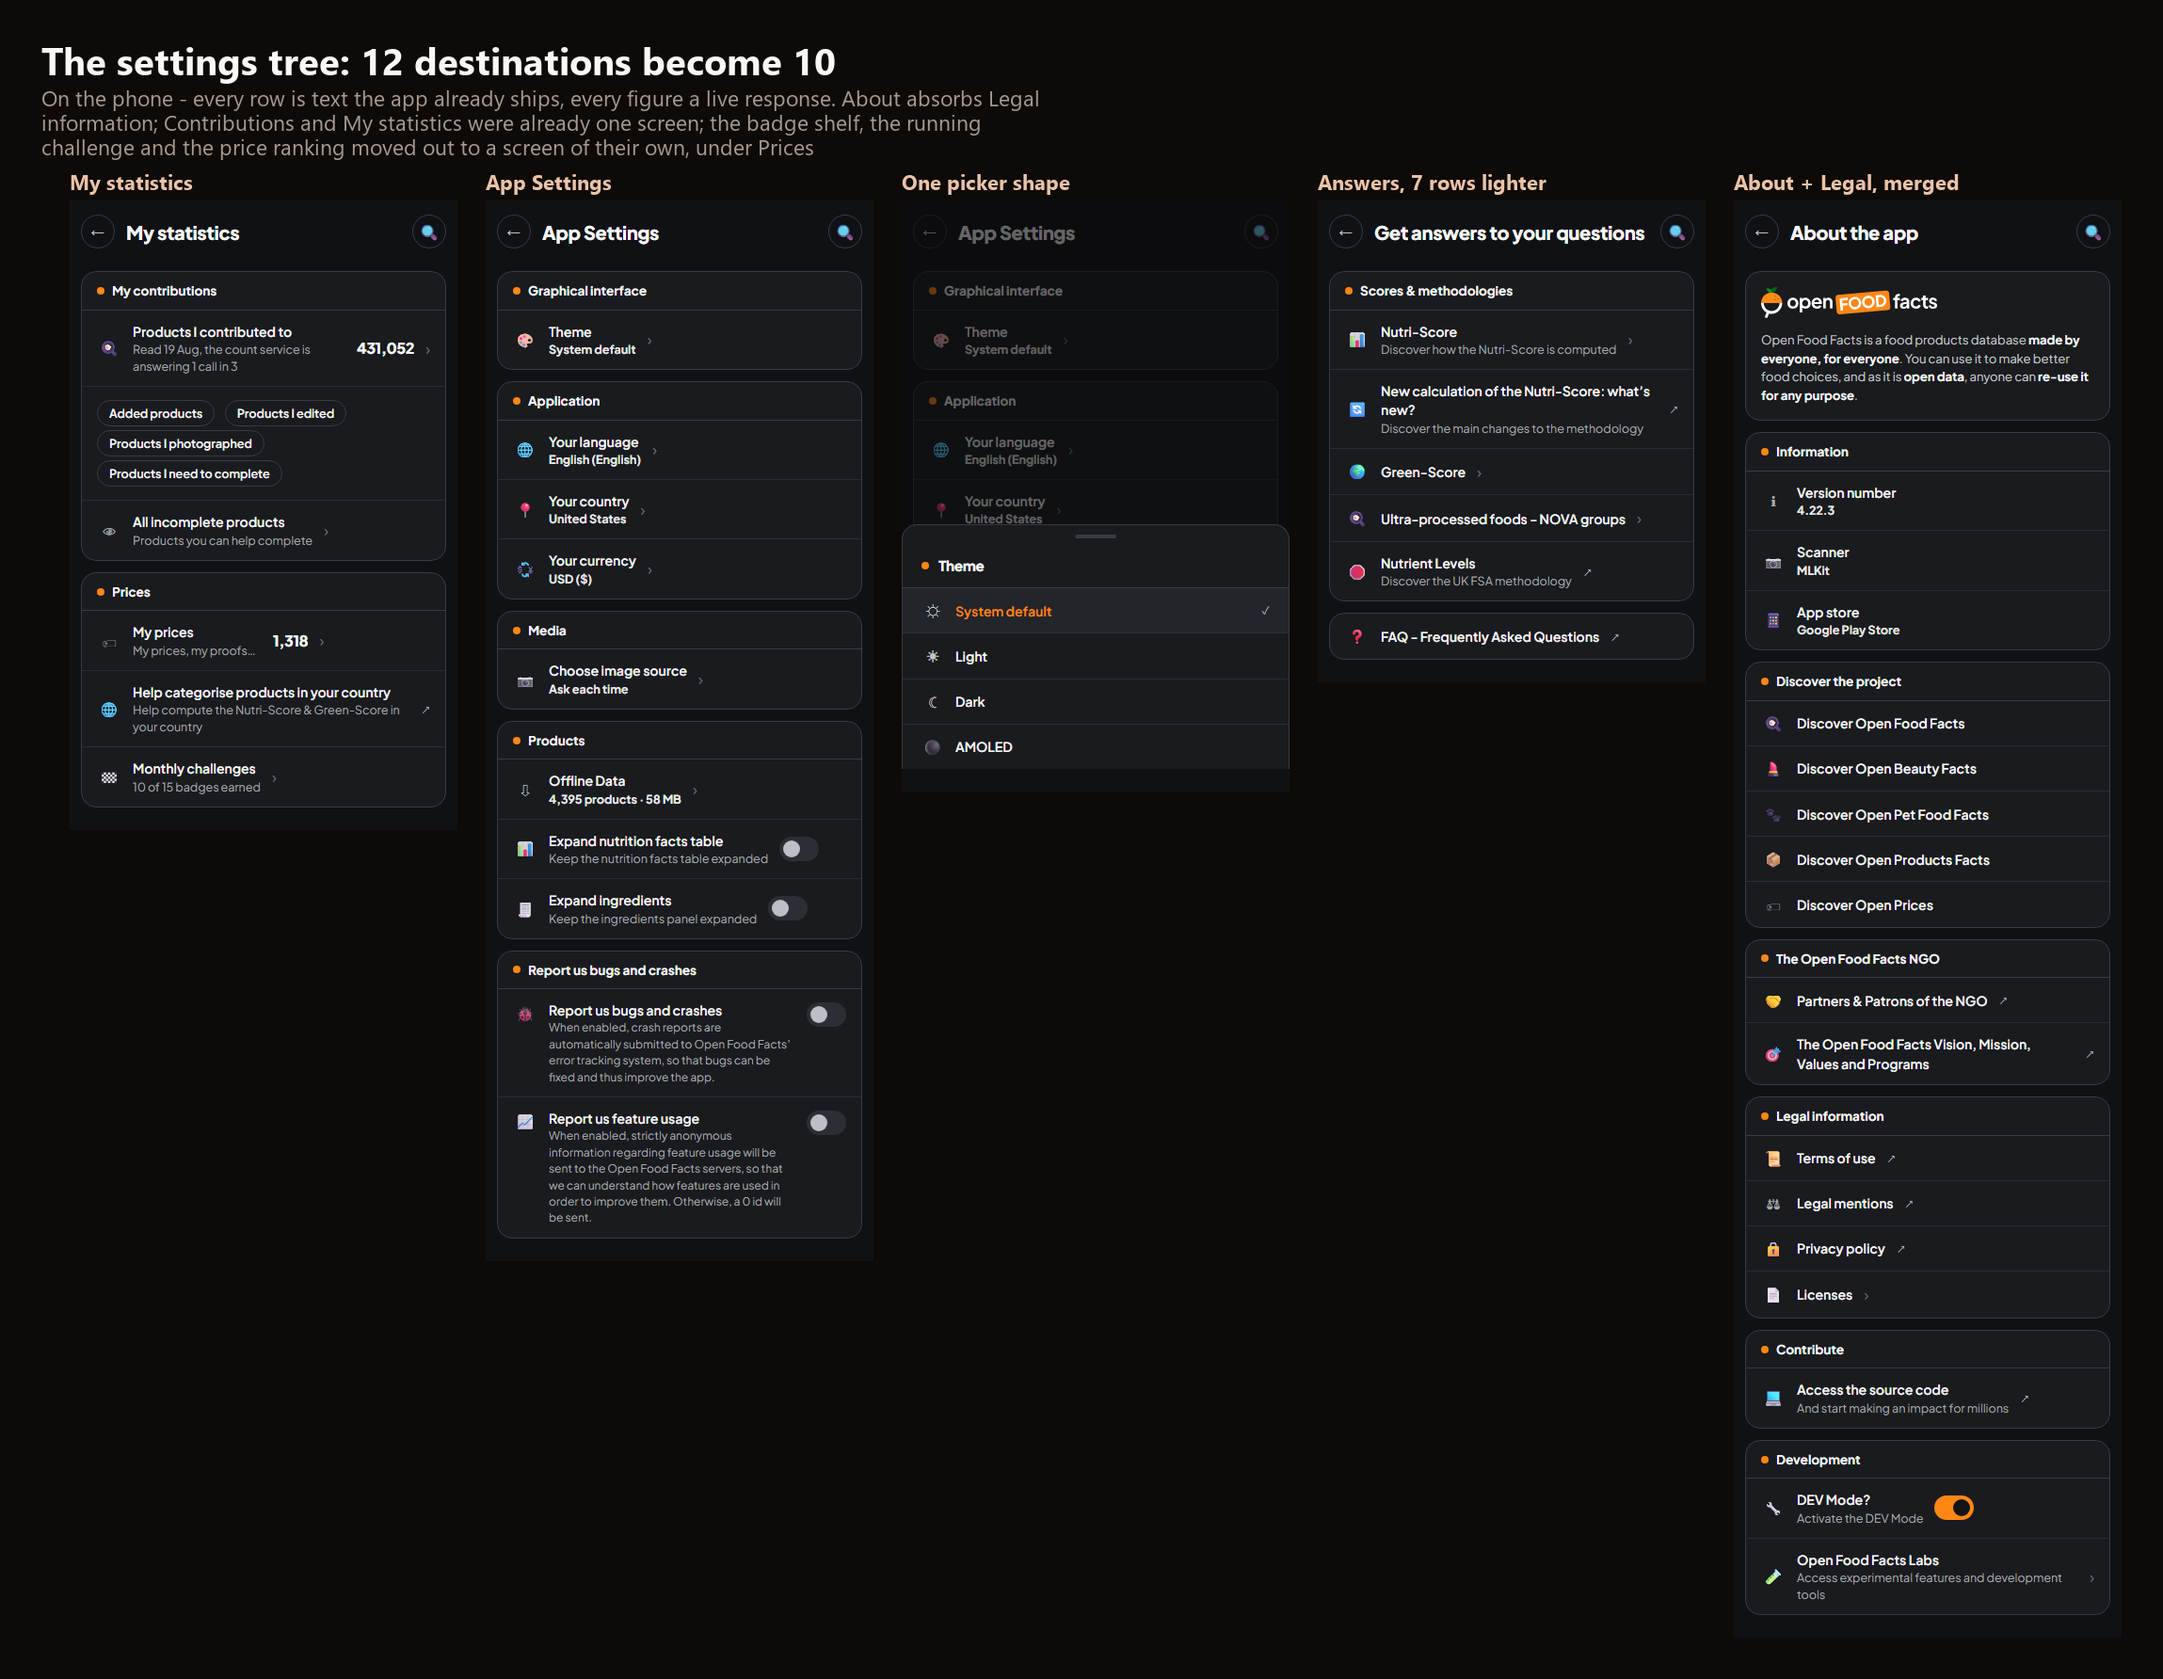
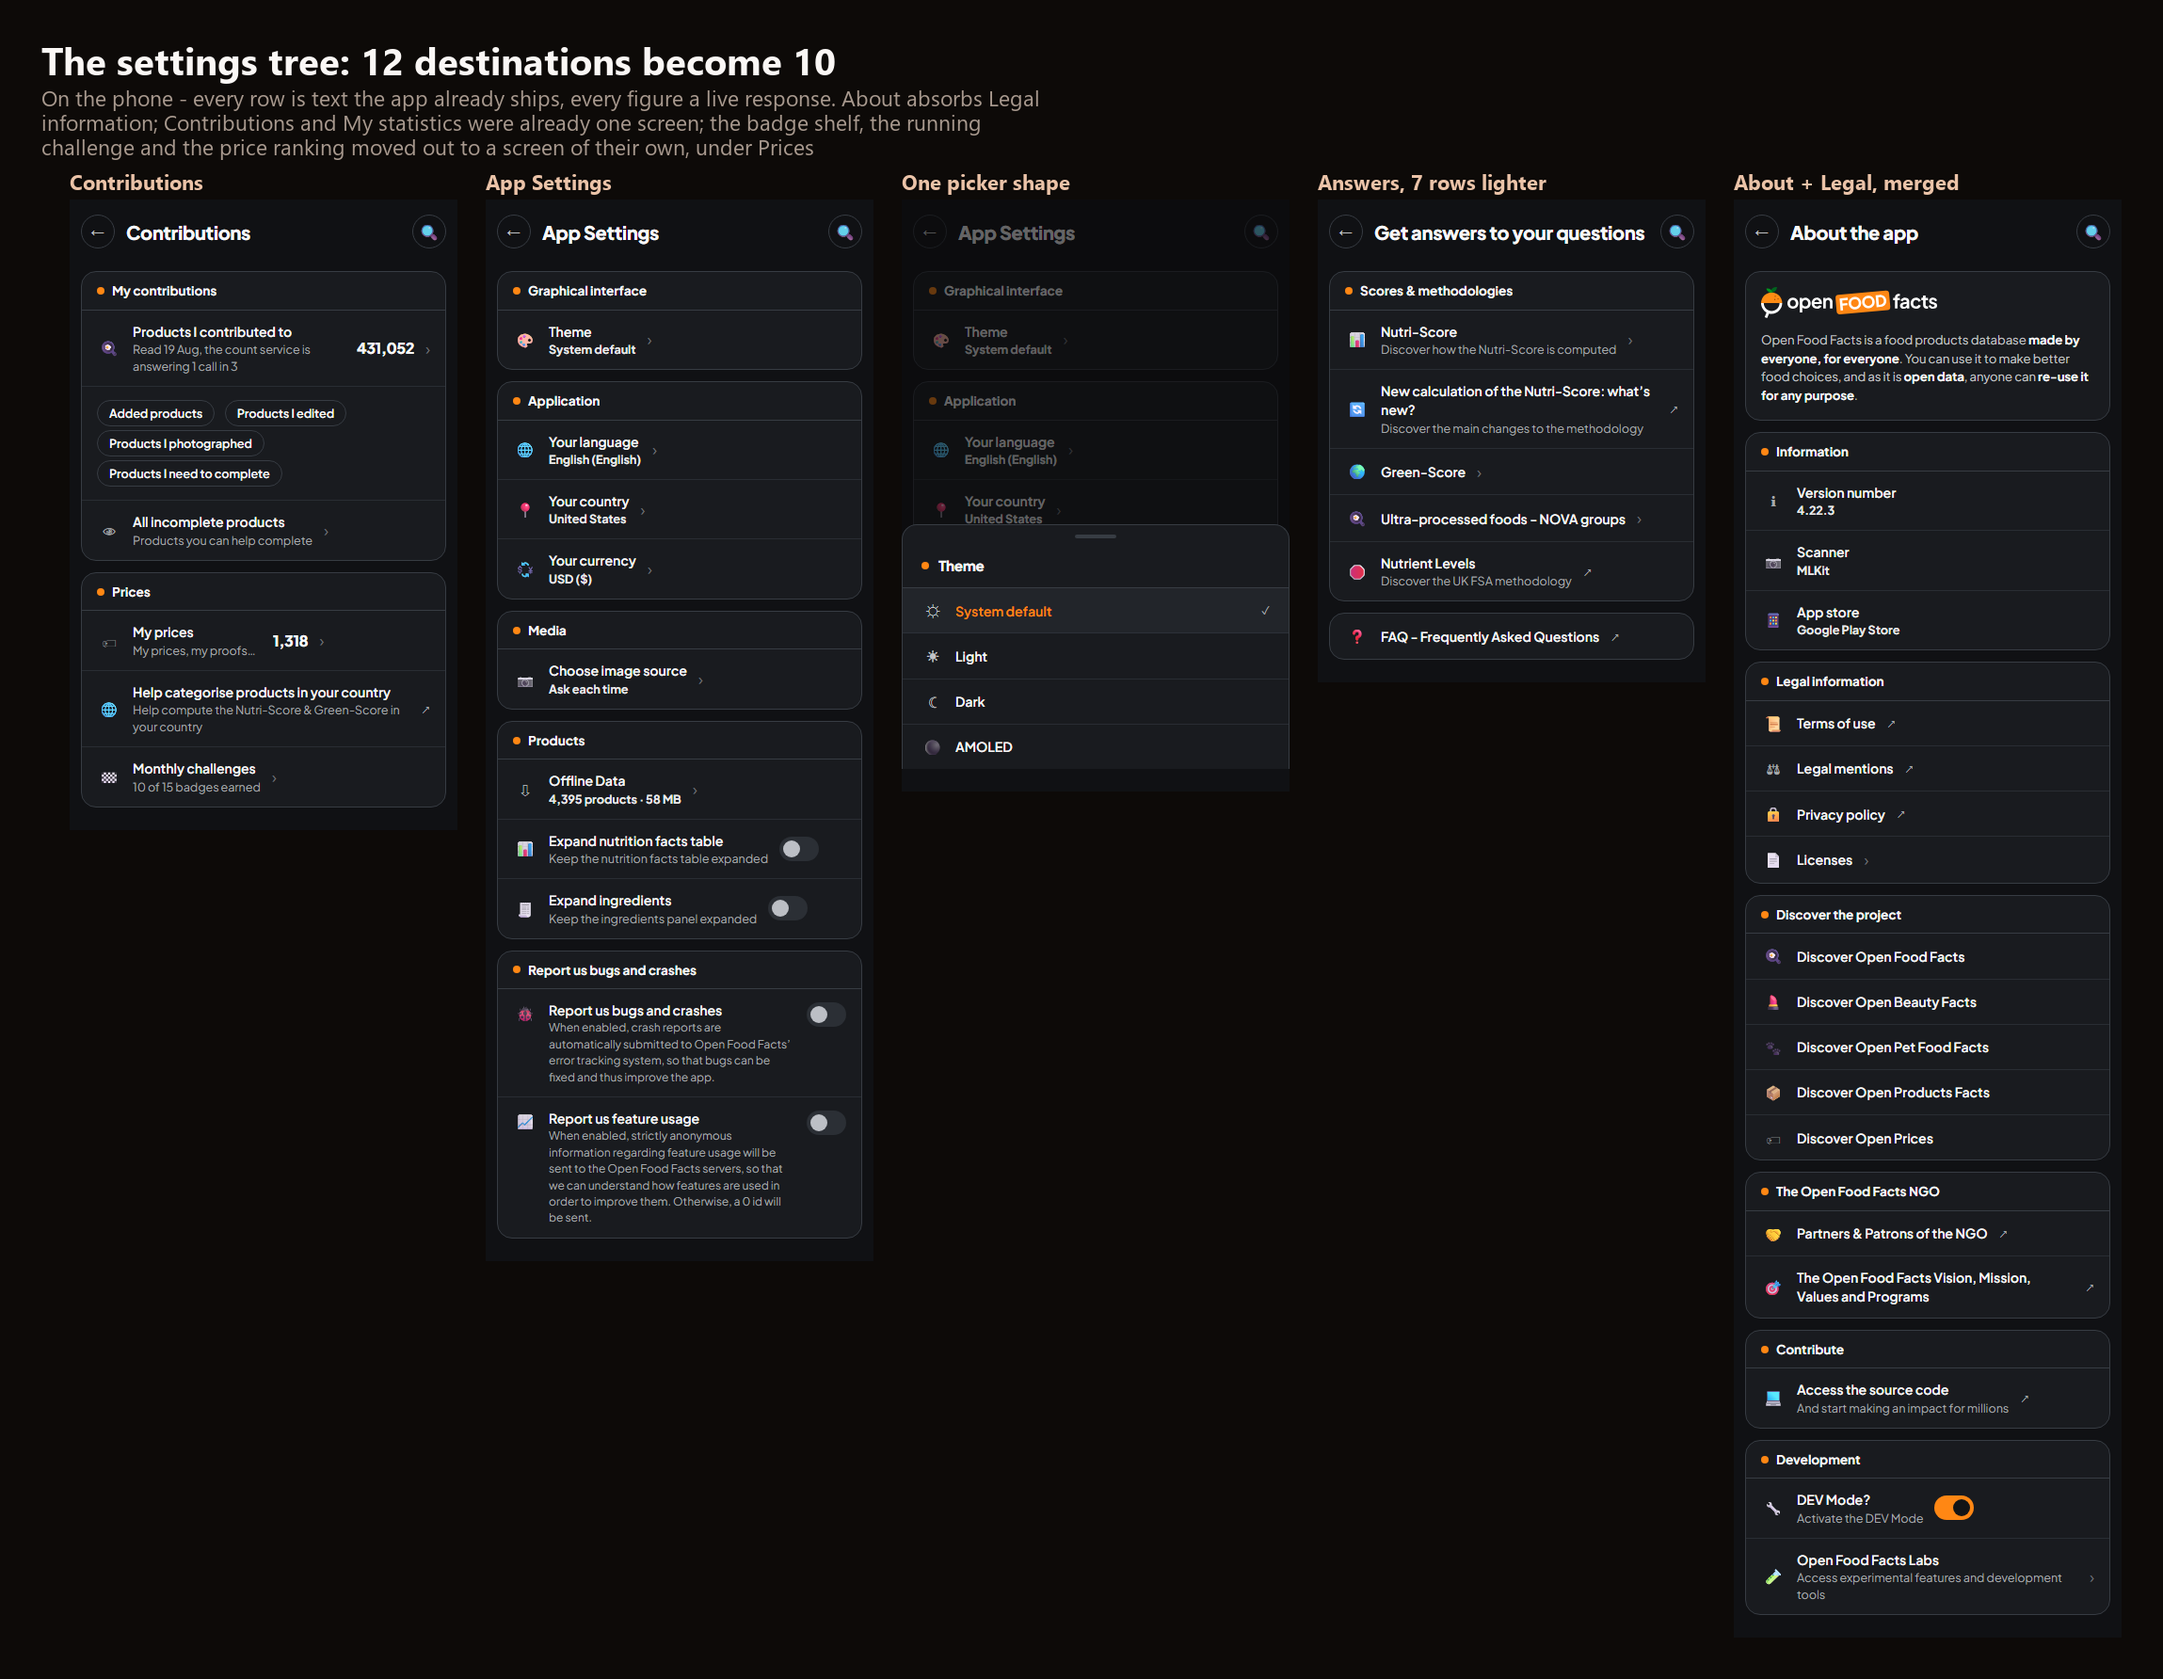
The questions pile ticks down as you answer; My statistics is now Contributions

Changed region(s): [[0.8033, 0.4008, 0.9269, 0.8016], [0.0309, 0.0925, 0.1236, 0.1541]]

diff --git a/07-search/mock.css b/07-search/mock.css
@@ -3,7 +3,7 @@
 .field {
   display: flex; align-items: center; gap: 10px; min-width: 0;
   background: var(--bg); border: 1px solid var(--field-edge); border-radius: 999px;
-  padding: 4px 4px 4px 4px;
+  padding: 4px;
   box-shadow: 0 0 0 3px var(--ring-peach), 0 8px 18px rgba(0, 0, 0, .34);
 }
 .webbar .field { width: 520px; }
@@ -31,12 +31,12 @@ h1 { font-size: 27px; font-weight: 800; letter-spacing: -.4px; }
   width: 14px; height: 14px; border-radius: 50%; background: var(--on-accent);
 }
 
-.card { background: var(--card); border: 1px solid var(--line); border-radius: var(--r); padding: 16px 16px; }
+.card { background: var(--card); border: 1px solid var(--line); border-radius: var(--r); padding: 16px; }
 .card + .card { margin-top: 16px; }
 .card h2 { font-size: 14px; font-weight: 700; margin-bottom: 3px; }
 .card .note { font-size: 12.5px; color: var(--muted); }
 
-.crit { list-style: none; margin: 12px 0 12px; display: grid; gap: 8px; }
+.crit { list-style: none; margin: 12px 0; display: grid; gap: 8px; }
 .crit li { display: flex; align-items: center; gap: 8px; font-size: 13.5px; }
 .crit li .w { margin-left: auto; font-size: 12px; color: var(--muted); }
 .crit li.red .w { color: var(--bad-text); }
@@ -62,7 +62,7 @@ h1 { font-size: 27px; font-weight: 800; letter-spacing: -.4px; }
 .shot { align-self: start; border: 1px solid var(--line); border-radius: 8px;
         overflow: hidden; background: var(--card2); }
 .shot .badge {
-  display: block; text-align: center; padding: 4px 4px 4px;
+  display: block; text-align: center; padding: 4px;
   font-size: 13.5px; font-weight: 700; color: var(--on-accent); background: var(--unknown-fill);
 }
 .shot .badge.good { background: var(--good); }
@@ -112,7 +112,7 @@ h1 { font-size: 27px; font-weight: 800; letter-spacing: -.4px; }
 .row .arw { color: var(--faint); font-size: 16px; }
 .seclbl {
   font-size: 12.5px; font-weight: 700; letter-spacing: .3px; color: var(--peach);
-  text-transform: uppercase; margin: 20px 0 2px;
+  text-transform: uppercase; margin: 24px 0 2px;
 }
 .paste {
   display: block; width: fit-content; margin: 24px auto 0;

diff --git a/12-guides/mock.css b/12-guides/mock.css
@@ -7,10 +7,10 @@
 .webbar .field { width: 420px; }
 
 h1 { font-size: 27px; font-weight: 800; letter-spacing: -.4px; }
-.hmeta { display: flex; align-items: center; gap: 12px; flex-wrap: wrap; margin: 6px 0 20px; font-size: 13px; color: var(--muted); }
+.hmeta { display: flex; align-items: center; gap: 12px; flex-wrap: wrap; margin: 8px 0 20px; font-size: 13px; color: var(--muted); }
 .hmeta b { color: var(--txt2); font-weight: 700; }
 
-.seclbl { font-size: 12.5px; font-weight: 700; letter-spacing: .3px; color: var(--peach); text-transform: uppercase; margin: 26px 0 10px; }
+.seclbl { font-size: 12.5px; font-weight: 700; letter-spacing: .3px; color: var(--peach); text-transform: uppercase; margin: 24px 0 10px; }
 .ggrid { display: grid; grid-template-columns: repeat(3, 1fr); gap: 14px; }
 .gcard {
   display: flex; flex-direction: column; gap: 8px;
@@ -26,7 +26,7 @@ h1 { font-size: 27px; font-weight: 800; letter-spacing: -.4px; }
 .gcard .t { display: flex; flex-direction: column; gap: 3px; min-width: 0; }
 .gcard b { display: block; font-size: 15.5px; font-weight: 700; line-height: 1.25; }
 .gcard span { display: block; font-size: 12.5px; color: var(--muted); }
-.gcard .kick { font-size: 11.5px; font-weight: 700; letter-spacing: .3px; color: var(--peach); text-transform: uppercase; }
+.gcard .kick { color: var(--peach); font-size: 11.5px; font-weight: 700; letter-spacing: .3px; text-transform: uppercase; }
 
 .doc { display: grid; grid-template-columns: 260px minmax(0, 720px); gap: 44px; align-items: start;
        max-width: 1024px; margin: 0 auto; }

diff --git a/17-contribute/hunger-answered.html b/17-contribute/hunger-answered.html
@@ -31,7 +31,7 @@
       <span class="spacer"></span>
     </div>
     <span class="spacer"></span>
-    <a class="cty" href="game-hub.html">731 left in Slovenia</a>
+    <a class="cty" href="game-hub.html">728 left in Slovenia</a>
   </div>
 
   <div class="scope">
@@ -48,9 +48,9 @@
         <span class="ring" aria-hidden="true"></span>
         <span class="conf" aria-hidden="true"><i></i><i></i><i></i><i></i><i></i><i></i><i></i><i></i></span>
         <span class="mark">&#10003;</span>
-        <div class="got">731</div>
+        <div class="got">728</div>
         <div class="gotc">questions left in Slovenia</div>
-        <div class="was">732 before you answered</div>
+        <div class="was">729 before you answered</div>
       </div>
 
       <div class="ansd"><b>Question answered!</b> Two questions are still open on this product.</div>

diff --git a/09-settings/stats.html b/09-settings/stats.html
@@ -3,7 +3,7 @@
 <head>
 <meta charset="utf-8">
 <meta name="viewport" content="width=device-width, initial-scale=1">
-<title>My statistics</title>
+<title>Contributions</title>
 <link rel="stylesheet" href="mock.css">
 <link rel="stylesheet" href="../shared/proto.css">
 <script src="../shared/proto-theme.js" defer></script>
@@ -14,7 +14,7 @@
 
   <div class="sbar">
     <a class="back" href="../04-profile/profile-in.html">&#8592;</a>
-    <h1>My statistics</h1>
+    <h1>Contributions</h1>
     <a class="ico" href="settings-search.html">&#128269;</a>
   </div>
 

diff --git a/10-compare/mock.css b/10-compare/mock.css
@@ -8,7 +8,7 @@
 .cols { display: grid; grid-template-columns: 300px 1fr; gap: 24px; align-items: start; }
 
 h1 { font-size: 27px; font-weight: 800; letter-spacing: -.4px; }
-.hmeta { display: flex; align-items: center; gap: 12px; flex-wrap: wrap; margin: 6px 0 18px; font-size: 13px; color: var(--muted); }
+.hmeta { display: flex; align-items: center; gap: 12px; flex-wrap: wrap; margin: 8px 0 20px; font-size: 13px; color: var(--muted); }
 .hmeta b { color: var(--txt2); font-weight: 700; }
 .hmeta .spacer { flex: 1; }
 

diff --git a/11-facets/mock.css b/11-facets/mock.css
@@ -13,7 +13,7 @@
 .crumb .sep { color: var(--faint); }
 
 h1 { font-size: 27px; font-weight: 800; letter-spacing: -.4px; }
-.hmeta { display: flex; align-items: center; gap: 12px; flex-wrap: wrap; margin: 6px 0 18px; font-size: 13px; color: var(--muted); }
+.hmeta { display: flex; align-items: center; gap: 12px; flex-wrap: wrap; margin: 8px 0 20px; font-size: 13px; color: var(--muted); }
 .hmeta b { color: var(--txt2); font-weight: 700; }
 .hmeta .spacer { flex: 1; }
 

diff --git a/17-contribute/hunger-queue.html b/17-contribute/hunger-queue.html
@@ -31,7 +31,7 @@
       <span class="spacer"></span>
     </div>
     <span class="spacer"></span>
-    <a class="cty" href="game-hub.html">732 left in Slovenia</a>
+    <a class="cty" href="game-hub.html">729 left in Slovenia</a>
   </div>
 
   <div class="scope">
